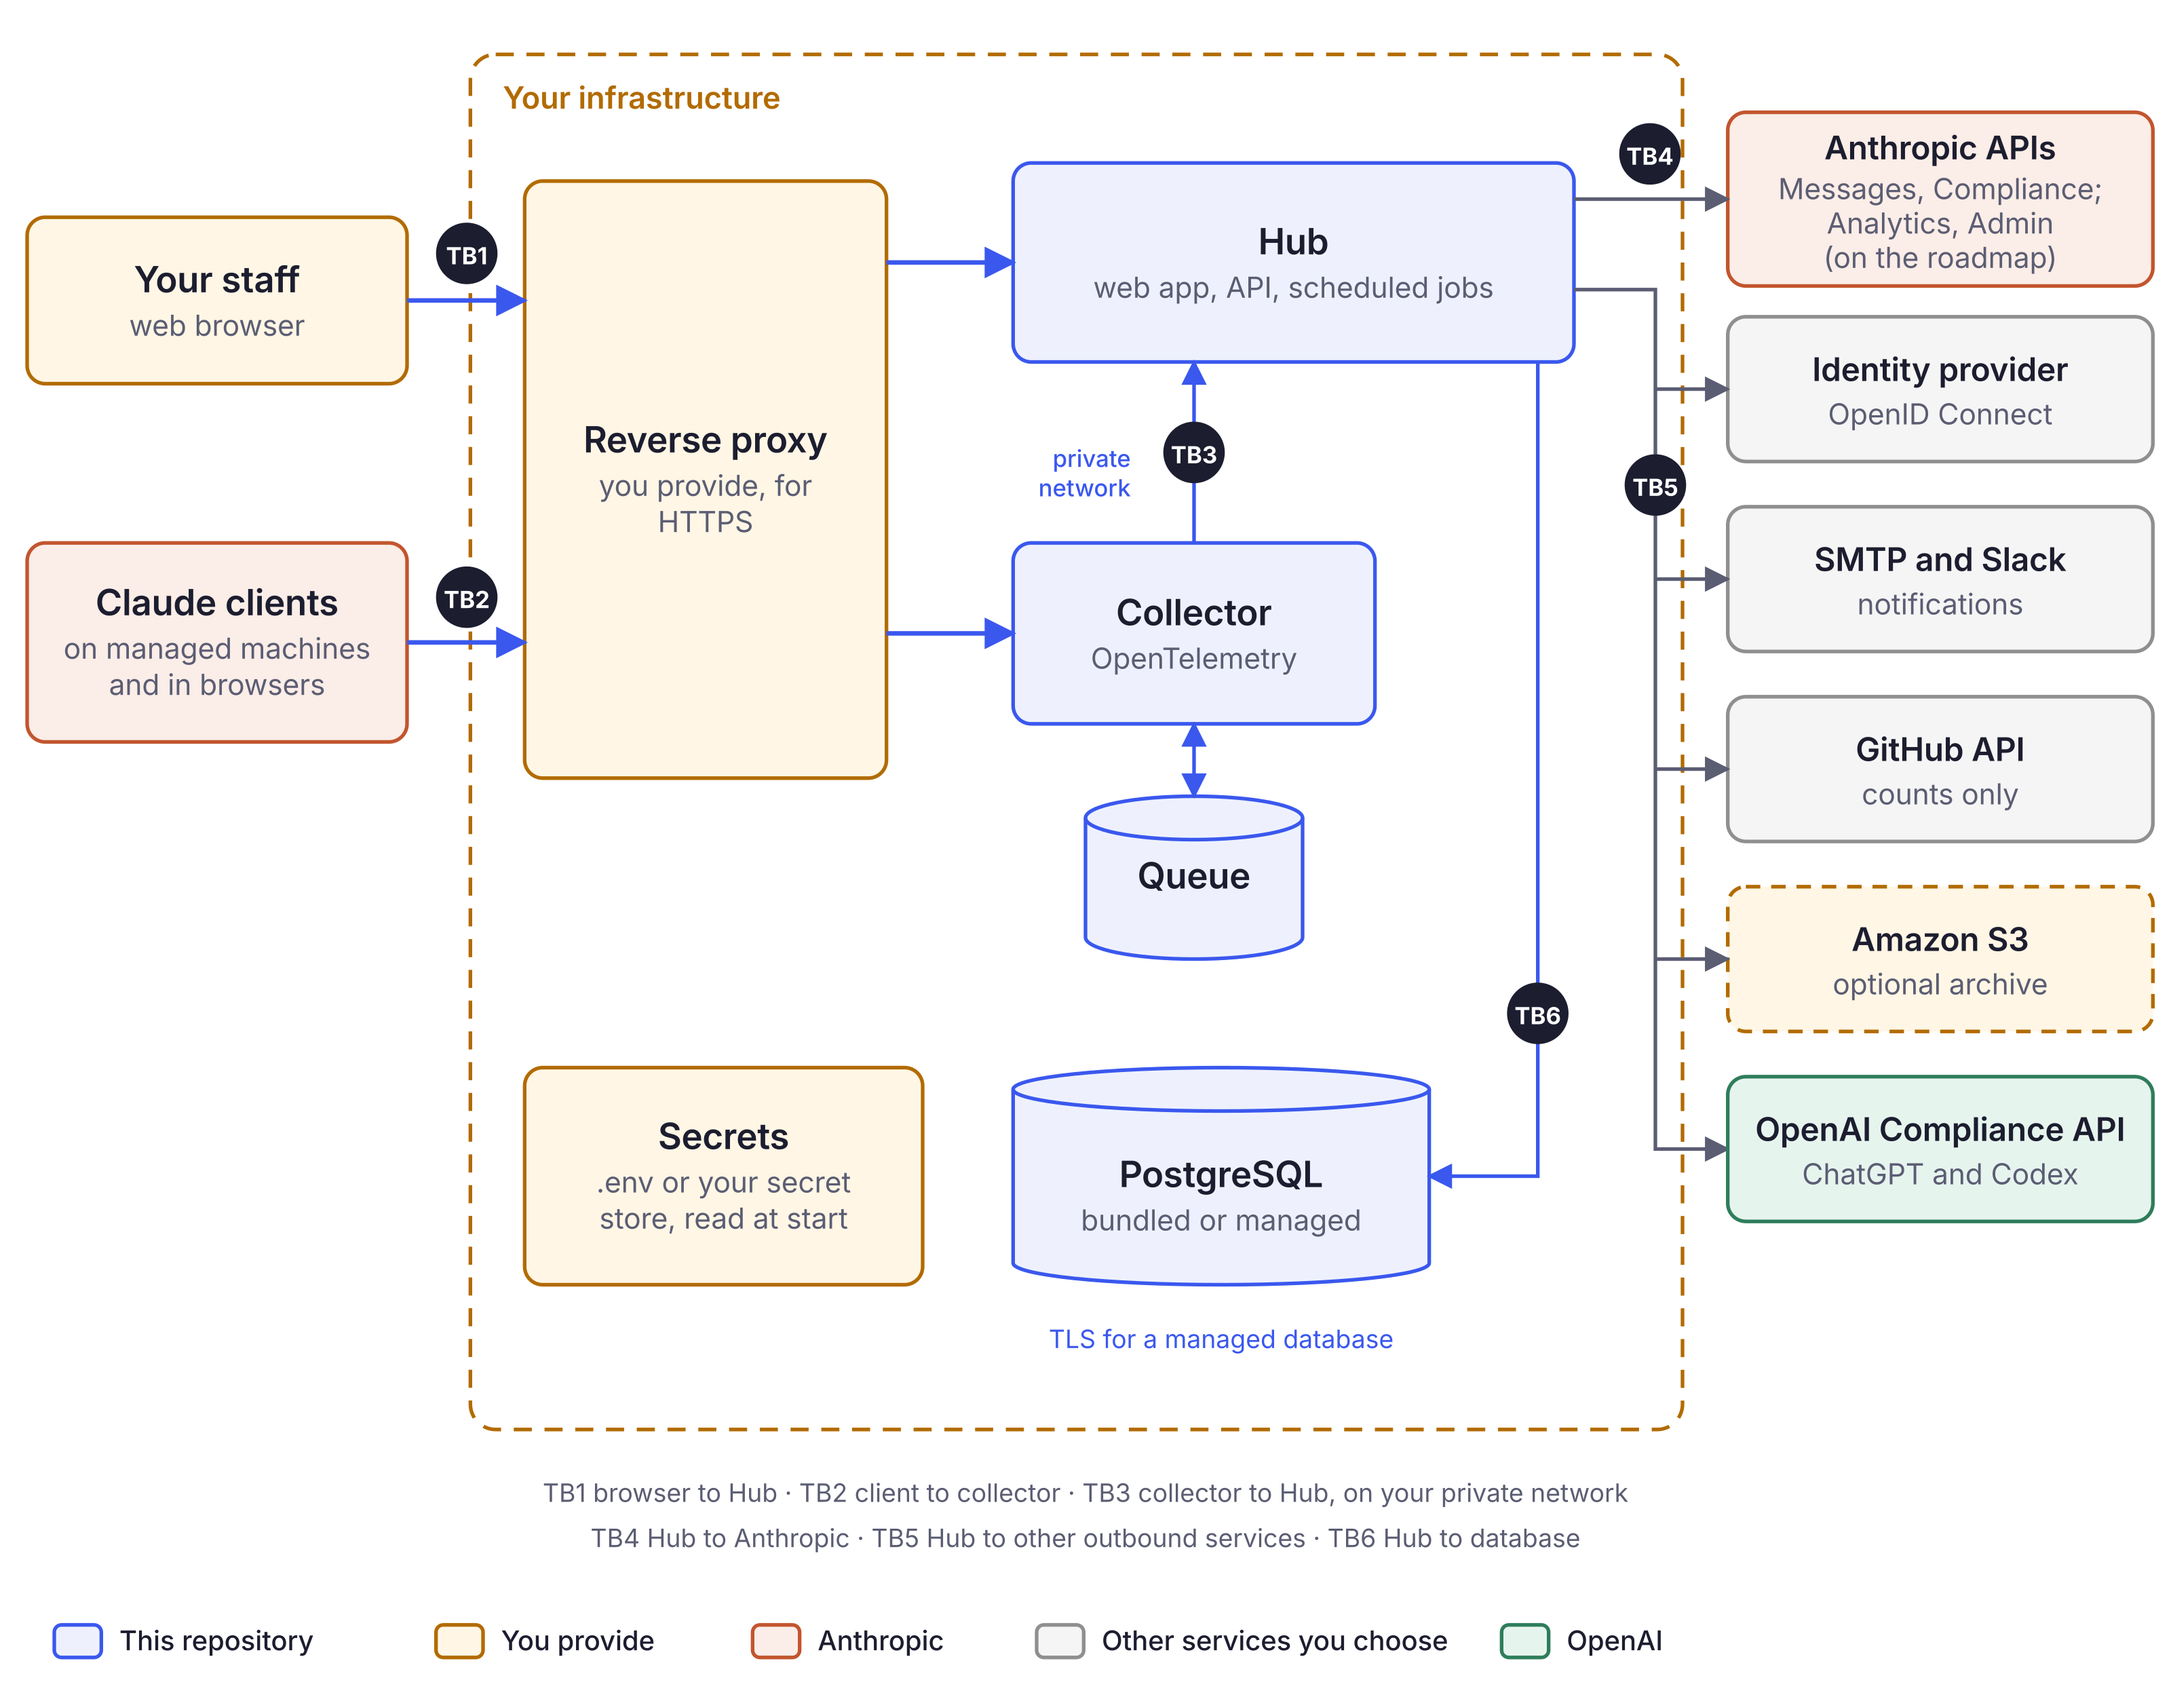
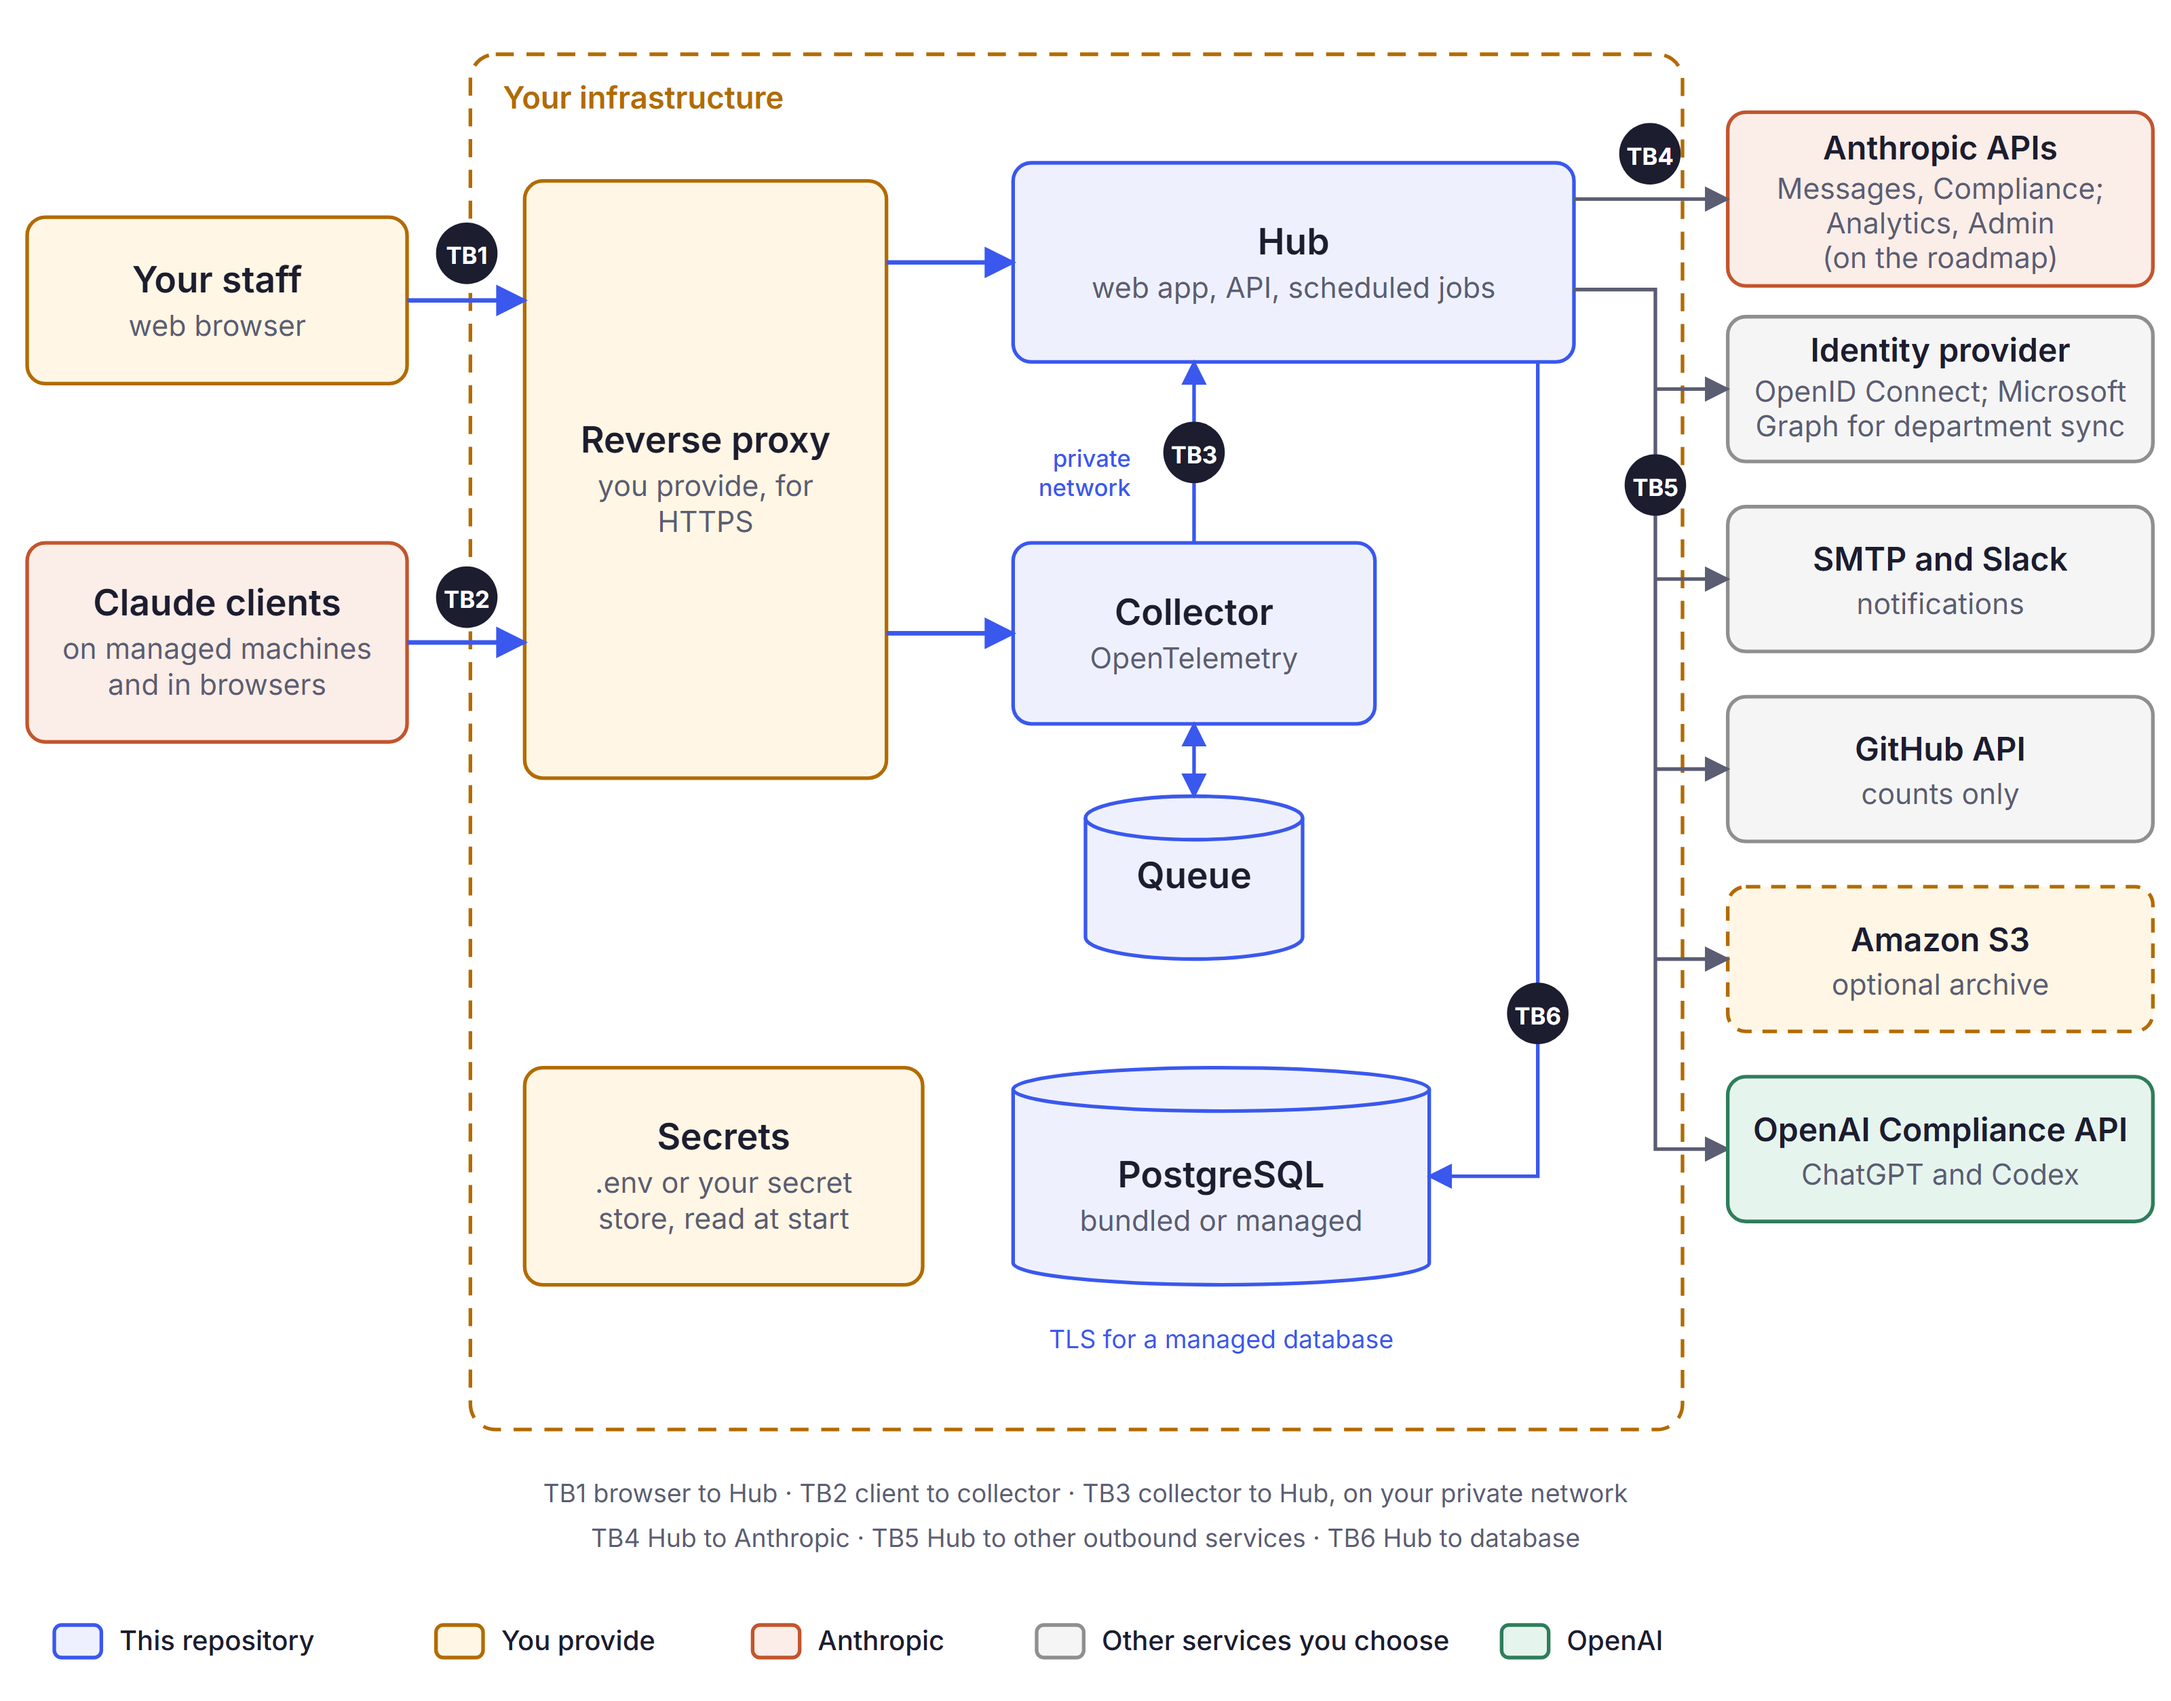
Docs: department sync in sign-in trust, shared responsibility, encryption in transit and the trust boundaries diagram

diff --git a/docs/security-and-data-protection.md b/docs/security-and-data-protection.md
@@ -23,7 +23,7 @@ All data Command Centre stores remains on infrastructure you control. The Comman
 | Area | Your organisation | Command Centre application | Anthropic and OpenAI |
 |---|---|---|---|
 | Network and edge | Network exposure and firewall, the HTTPS reverse proxy or load balancer, any web application firewall, DNS, egress control | Origin checks, body size limits, security headers, ingest rate limits | Not involved |
-| Identity | Identity provider, MFA policy for SSO users, joiners and leavers, role assignment | Local accounts, password hashing, TOTP MFA, sessions, role checks on every route | The identity each person signed in to Claude or ChatGPT with, reported in telemetry and exports |
+| Identity | Identity provider, MFA policy for SSO users, joiners and leavers, role assignment, keeping departments correct in the directory if you use department sync | Local accounts, password hashing, TOTP MFA, sessions, role checks on every route | The identity each person signed in to Claude or ChatGPT with, reported in telemetry and exports |
 | Data at rest | Disk or database encryption and its keys, backups and access to them | Encryption of stored secrets and MFA seeds, hashing of sign-in, reset and connector tokens | Data in their own services, under your agreements with them |
 | Data in transit | Certificates and TLS at your proxy, TLS on a managed database, SMTP relay TLS | Verified TLS to a managed database, HTTPS to outbound services | TLS on their APIs |
 | Logging and monitoring | Keeping, alerting on and forwarding the containers' logs, SIEM | Access audit log, authentication events, System health, alerts | Anthropic Compliance API activity records |
@@ -39,7 +39,7 @@ People sign in with a local Command Centre account (email and password) or throu
 
 Single sign-on uses OpenID Connect with the authorisation code flow, PKCE (S256), `state` and `nonce`, implemented with the OpenID-certified `openid-client` library, and works with identity providers that implement OpenID Connect. Single sign-on has been tested with Google Workspace and Microsoft Entra ID. SAML is not supported; it is on the roadmap. The library validates the ID token's issuer, audience, expiry and nonce.
 
-The identity provider is trusted only to prove identity. Before any account lookup the ID token must show that the provider has verified the email: `email_verified: true`, or, for Microsoft Entra ID, which does not send that claim, the optional claim `xms_edov: true`. For Entra, add the optional ID token claims `email` and `xms_edov` to the app registration. The verified email must then match an existing Command Centre account with SSO enabled; an unknown email is refused and no account is created. Every SSO sign-in and refusal is written to the access audit log with its reason. The temporary PKCE, state and nonce values travel in a ten-minute encrypted cookie and are never stored on the server.
+For signing in, the identity provider is trusted only to prove identity. With department sync on, Microsoft Entra ID is also the source of people's departments, as described below. Before any account lookup the ID token must show that the provider has verified the email: `email_verified: true`, or, for Microsoft Entra ID, which does not send that claim, the optional claim `xms_edov: true`. For Entra, add the optional ID token claims `email` and `xms_edov` to the app registration. The verified email must then match an existing Command Centre account with SSO enabled; an unknown email is refused and no account is created. Every SSO sign-in and refusal is written to the access audit log with its reason. The temporary PKCE, state and nonce values travel in a ten-minute encrypted cookie and are never stored on the server.
 
 Department sync, which an administrator switches on, reads people's departments from Microsoft Entra ID through Microsoft Graph, read-only. At sign-in it reads the signed-in person's own department with the access token Microsoft returns for that sign-in (delegated permission `User.Read`, requested only while department sync is on); the token is used once, in memory, and is never stored or logged. The daily lookup uses an app-only token from the client credentials grant, made with the single sign-on app's existing client ID and secret (application permission `User.Read.All`, with admin consent); no new secret is stored. The daily lookup reads every user in the directory, with their email addresses, sign-in name and department. It keeps the department of people Command Centre already knows and discards the rest without storing it. Department sync writes departments only: it never changes a role or single sign-on access, never creates an account, and never decides who may sign in. For an account that is not an admin, such as a manager, the department also sets which department's data the person can see, so a department change made by the sync changes that scope; an administrator's access is unaffected. It runs after a sign-in has been authorised and is not awaited, so a failure cannot block or slow a sign-in; the person keeps their existing department and the failure is recorded for System health. A department an administrator set by hand is never overwritten. Every department change is recorded with its date and whether the directory or an administrator made it, and every department sync action an administrator takes is written to the access audit log.
 
@@ -183,6 +183,7 @@ For ChatGPT and Codex, what Command Centre receives is decided by the read permi
 | Hub to the Anthropic API, GitHub API, Slack and Amazon S3 | HTTPS with certificate validation; Slack webhook URLs must be HTTPS |
 | Hub to OpenAI's API | HTTPS with certificate validation. Export files are fetched from short-lived download links over HTTPS only, without the admin key |
 | Hub to identity provider | HTTPS when the issuer URL you configure uses HTTPS |
+| Hub to Microsoft Graph (department sync) | HTTPS with certificate validation |
 | Hub to SMTP relay | Implicit TLS on port 465; STARTTLS on other ports when the relay offers it |
 
 ### Encryption at rest

diff --git a/docs/product-overview.md b/docs/product-overview.md
@@ -398,7 +398,7 @@ When telemetry, Anthropic's Compliance API or OpenAI's Compliance API first show
 
 ### Sign-in, single sign-on and MFA
 
-People sign in with email and password or through single sign-on with an OpenID Connect identity provider. Single sign-on proves identity only: the person must already hold a Command Centre account with single sign-on enabled, and their role is held in Command Centre. Password accounts can add one-time passcodes from an authenticator app, with single-use recovery codes. Sessions expire after 24 hours or eight hours of inactivity; a person who chooses to be remembered on a device stays signed in for up to seven days. Administrators can see and revoke active sessions. When a session has ended, the next page or request takes the person straight to sign-in, and back to the same page afterwards.
+People sign in with email and password or through single sign-on with an OpenID Connect identity provider. Single sign-on proves identity only: the person must already hold a Command Centre account with single sign-on enabled, and their role is held in Command Centre. With single sign-on through Microsoft Entra ID, department sync can also keep each person's department in step with the directory; it never changes a role. Password accounts can add one-time passcodes from an authenticator app, with single-use recovery codes. Sessions expire after 24 hours or eight hours of inactivity; a person who chooses to be remembered on a device stays signed in for up to seven days. Administrators can see and revoke active sessions. When a session has ended, the next page or request takes the person straight to sign-in, and back to the same page afterwards.
 
 ### Configuration
 

diff --git a/docs/troubleshooting.md b/docs/troubleshooting.md
@@ -1,6 +1,6 @@
 # Frontier Command Centre: Troubleshooting and FAQ
 
-Fixes for the problems people most often hit when installing, signing in, connecting Claude, connecting ChatGPT and Codex, running and updating Command Centre.
+Fixes for the problems people most often hit when installing, signing in, connecting Claude, connecting ChatGPT and Codex, using department sync, running and updating Command Centre.
 
 The commands are for Docker Compose installations: run them from the `command-centre` folder. If your problem is not listed, ask in [Discussions](https://github.com/frontiercc/command-centre/discussions), or report a bug in [Issues](https://github.com/frontiercc/command-centre/issues).
 
